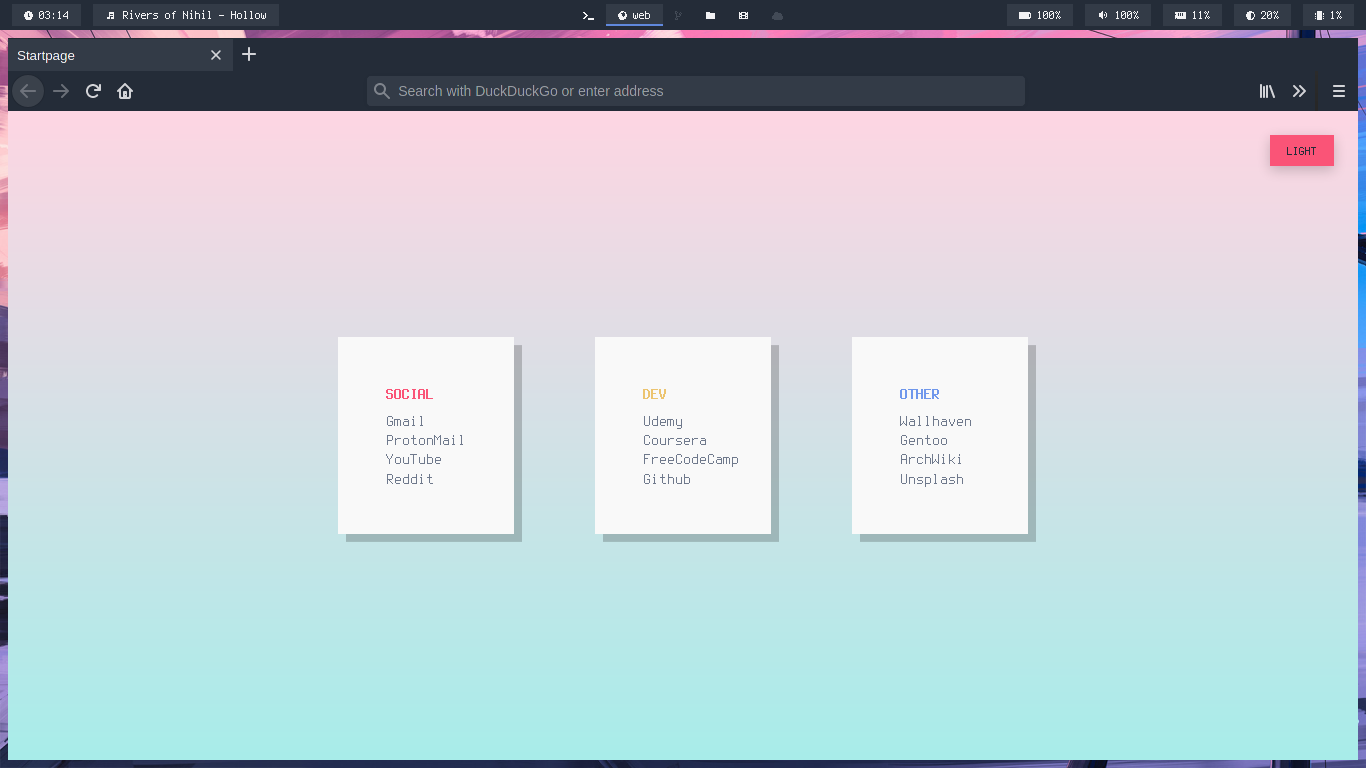
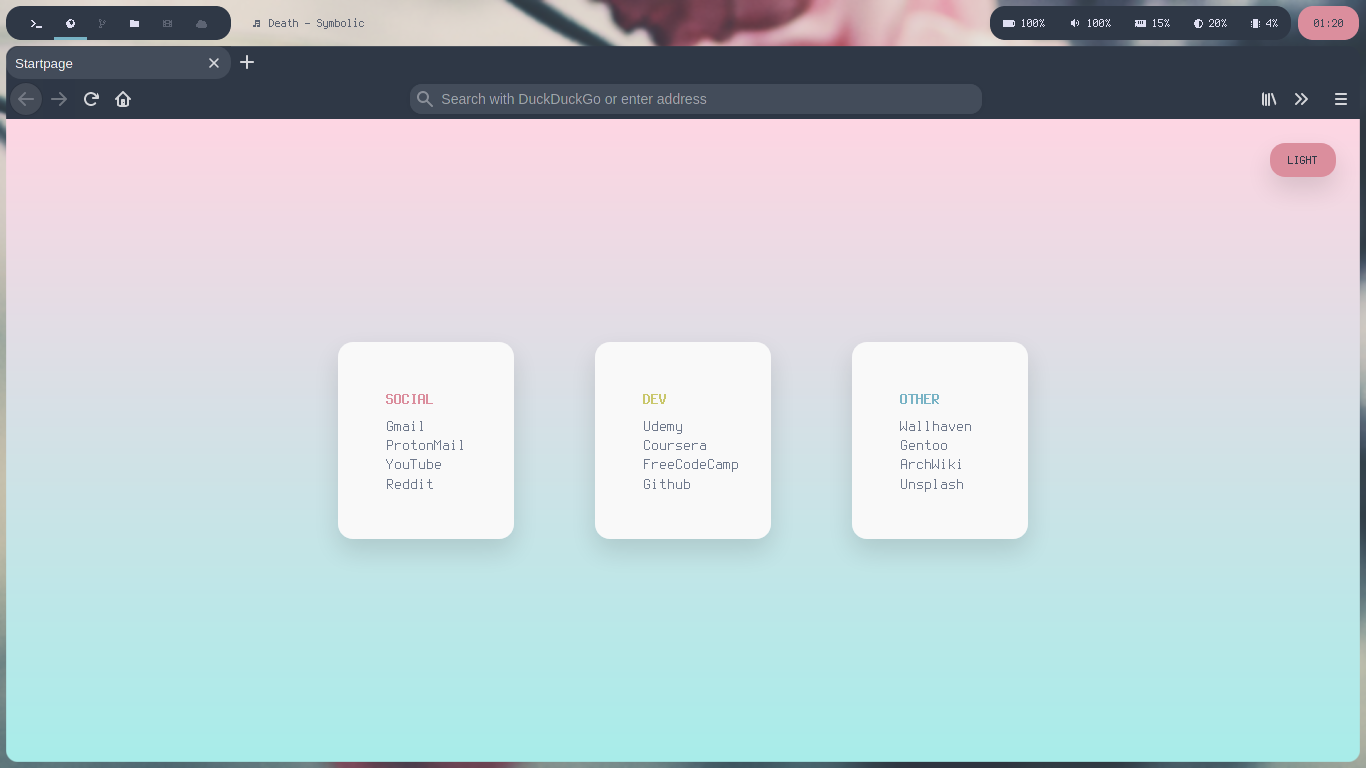
update

diff --git a/style.css b/style.css
@@ -11,7 +11,7 @@
 	--bg-light2: #f9f9f9;
 	--fg-light: #6f798c;
 	--green: #70b791;
-	--magenta: #e27997;
+	--magenta: #db8e9d;
 	--yellow: #c9c76b;
 	--cyan: #78b3c5;
 	--font: 'xos4 Terminus', sans-serif;
